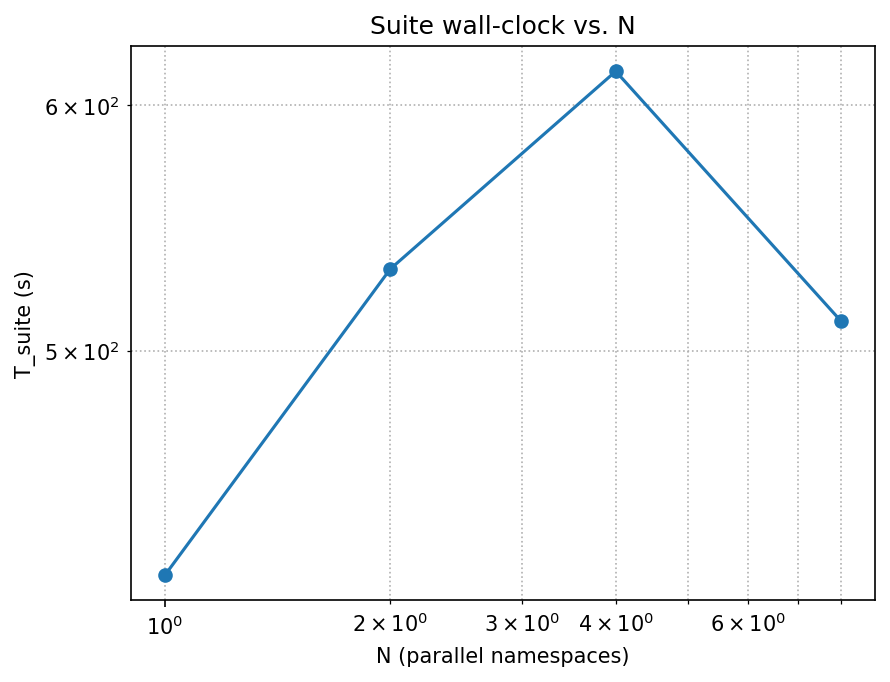
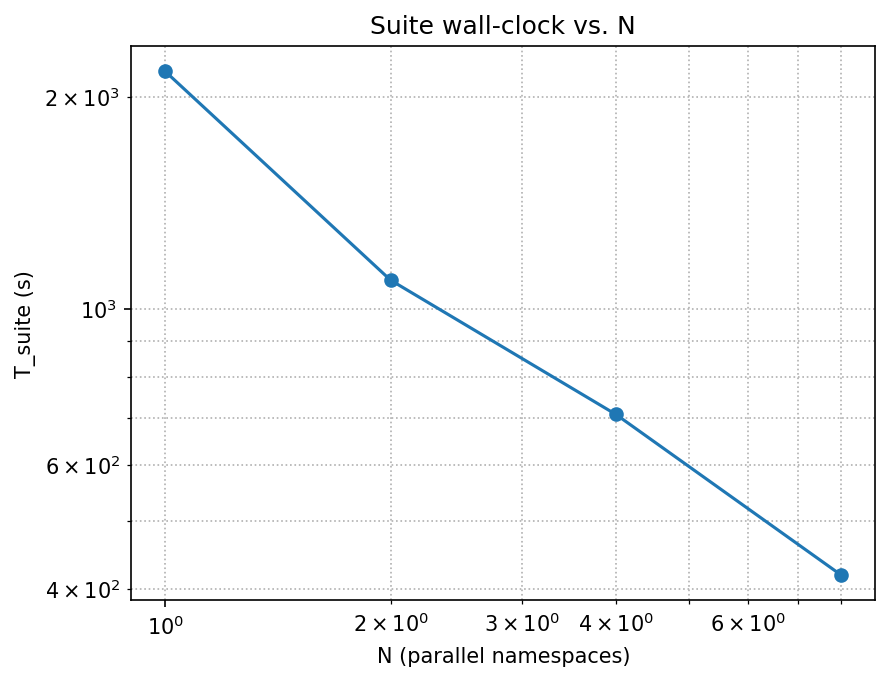
fix: assign globally unique namespaces per test in run-n.sh
Previously each worker reused the same namespace name (gsm-1, gsm-2)
for all its tests. This caused load_events() in summarize.py to
overwrite earlier phase timestamps with later ones, collapsing
T_suite_s to the last test's duration only (e.g. 423s instead of
2177s for N=1 with 8 tests).

Fix: assign globally sequential namespace names across all workers:
  test slot 0 -> gsm-1, slot 1 -> gsm-2, ..., slot 7 -> gsm-8
Namespace names are now unique so events, logs, and pod-resources are
all trivially traceable per test.

Also add a safety fallback in summarize.py: if test-durations.csv has
start_ts/end_ts, recompute T_suite_s from max(end_ts)-min(start_ts).

Regenerate matrix-run-1 summary.json and plots with corrected values:
  N=1: ~2177s  N=2: ~1099s (2.0x)  N=4: ~707s (3.1x)  N=8: ~423s (5.1x)

diff --git a/scripts/summarize.py b/scripts/summarize.py
@@ -177,6 +177,14 @@ def main() -> int:
             }
             for r in durations
         ]
+        # Recompute T_suite_s from actual test timestamps.
+        # The events-based value is wrong when the same namespace name is reused
+        # across tests (fresh-ns-per-test): load_events() overwrites earlier
+        # phases with later ones, collapsing T_suite_s to the last test only.
+        starts = [float(r["start_ts"]) for r in durations if r.get("start_ts")]
+        ends   = [float(r["end_ts"])   for r in durations if r.get("end_ts")]
+        if starts and ends:
+            summary["T_suite_s"] = round(max(ends) - min(starts), 3)
 
     # Pod health
     pods = load_pods(run_dir / "pods.csv")
